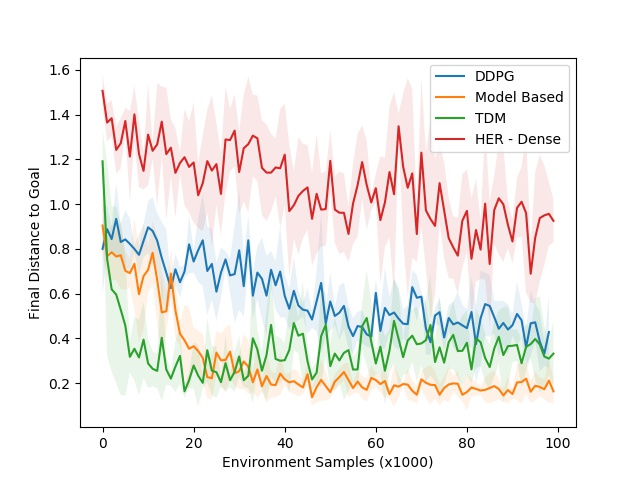
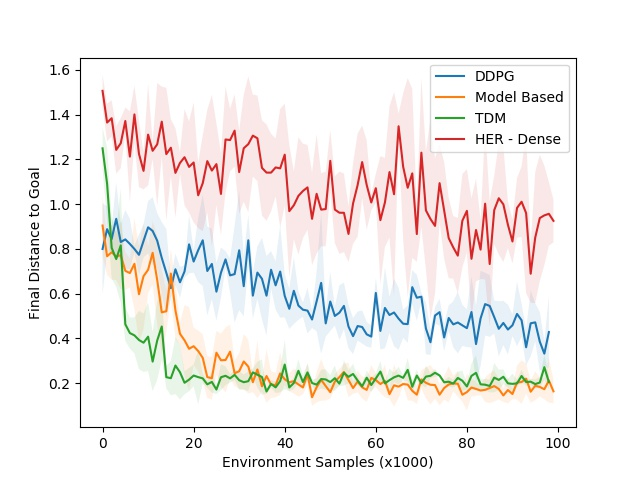
update pusher results

Changed region(s): [[0.1562, 0.3125, 0.875, 0.8125]]

diff --git a/experiments/state_distance/iclr2018/pusher_results.py b/experiments/state_distance/iclr2018/pusher_results.py
@@ -36,6 +36,12 @@ our_criteria = {
 #     'algo_params.num_updates_per_env_step': 25,
 #     'epoch_discount_schedule_params.value': 15,
 # }
+our_path = "/home/vitchyr/git/rllab-rail/railrl/data/doodads3/11-02-get-results-handxyxy-small-sweep"
+our_criteria = {
+    'algo_params.num_updates_per_env_step': 5,
+    'epoch_discount_schedule_params.value': 5,
+    'algo_params.tau': 0.001,
+}
 
 her_dense_path = "/home/vitchyr/git/rllab-rail/railrl/data/doodads3/10-27-her-baseline-shaped-rewards-no-clipping-300-300-right-discount-and-tau/"
 her_dense_criteria = {
